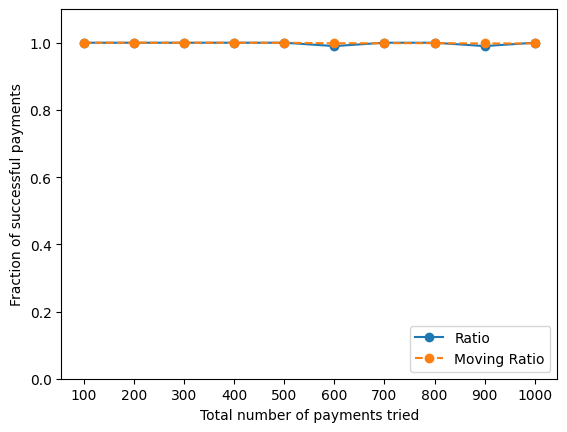
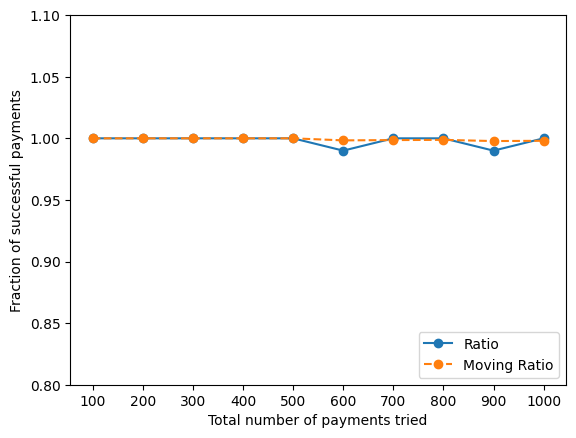
Changed plot ranges

Changed region(s): [[0.0, 0.0, 0.9894, 0.9931], [0.06, 0.0903, 0.0899, 0.1204]]

diff --git a/assgn3/HW3/client.py b/assgn3/HW3/client.py
@@ -192,7 +192,7 @@ if __name__=="__main__":
     (fig, ax) = plt.subplots()
     ax.plot(ratios.keys(), ratios.values(), marker='o', label='Ratio')
     ax.plot(ratios_moving.keys(), ratios_moving.values(),linestyle='--', marker='o', label='Moving Ratio')
-    ax.set_ylim(0,1.1)
+    ax.set_ylim(0.6,0.9)
     ax.set_xticks(list(ratios.keys()))
     ax.set_xlabel('Total number of payments tried')
     ax.set_ylabel('Fraction of successful payments')
